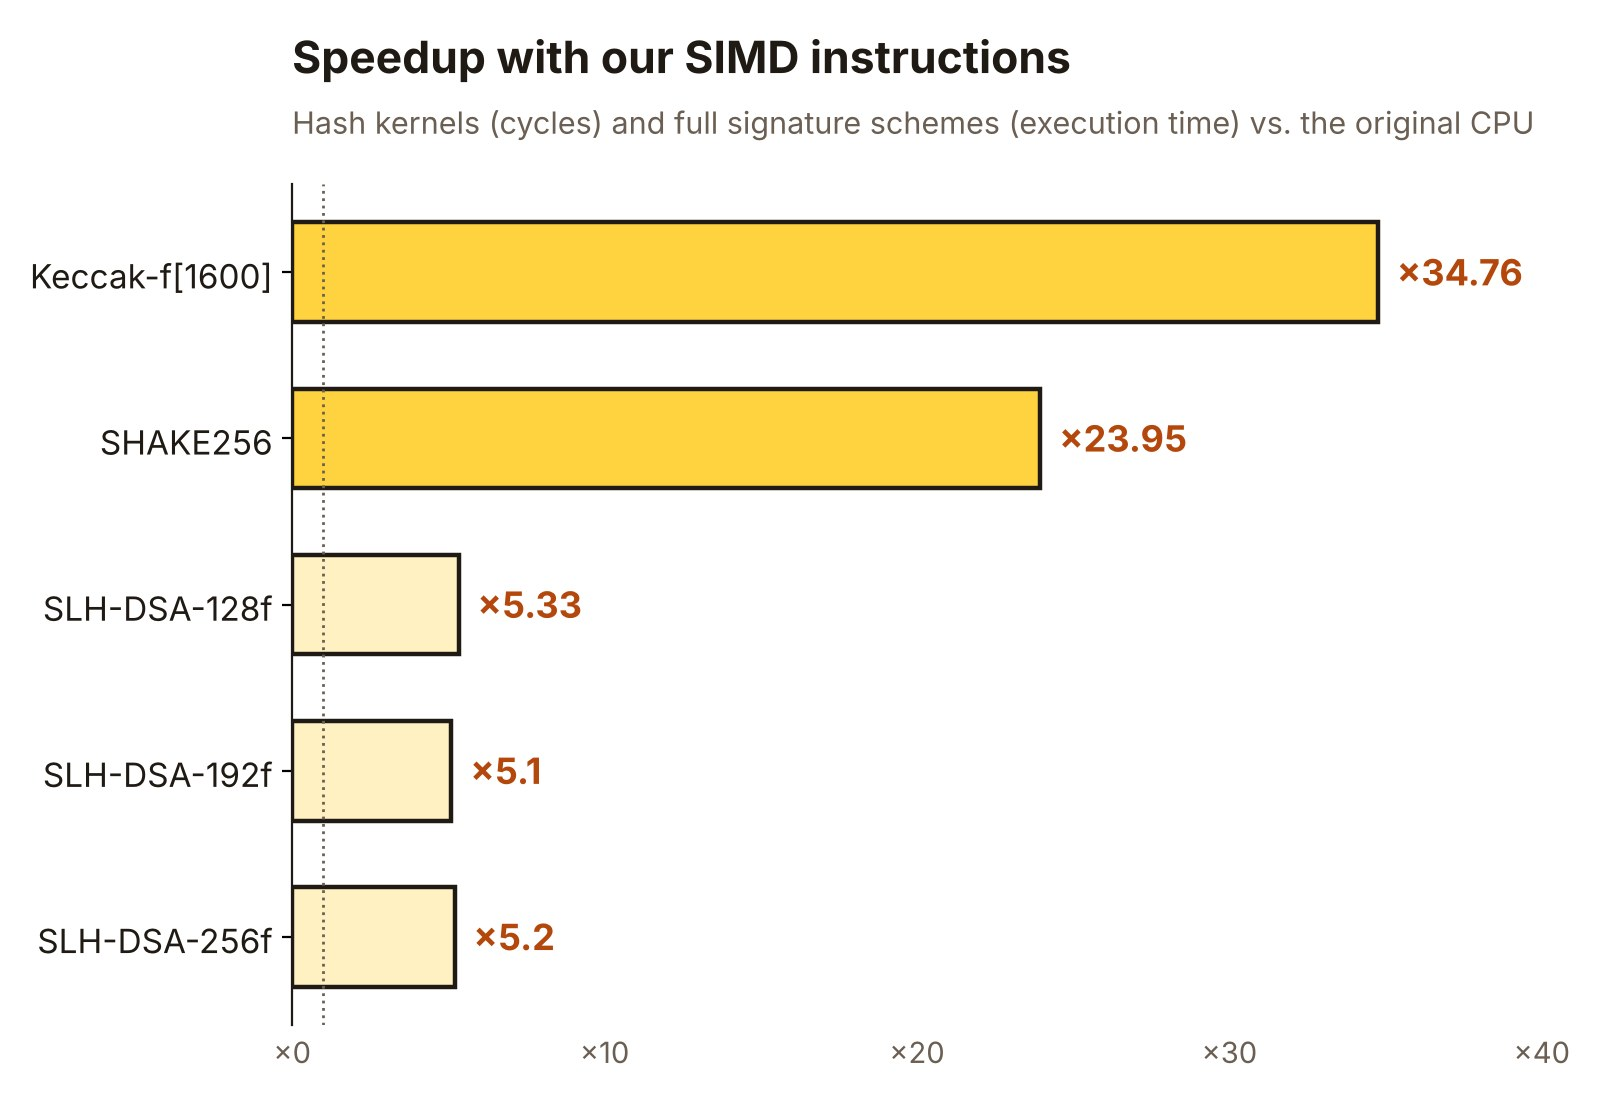
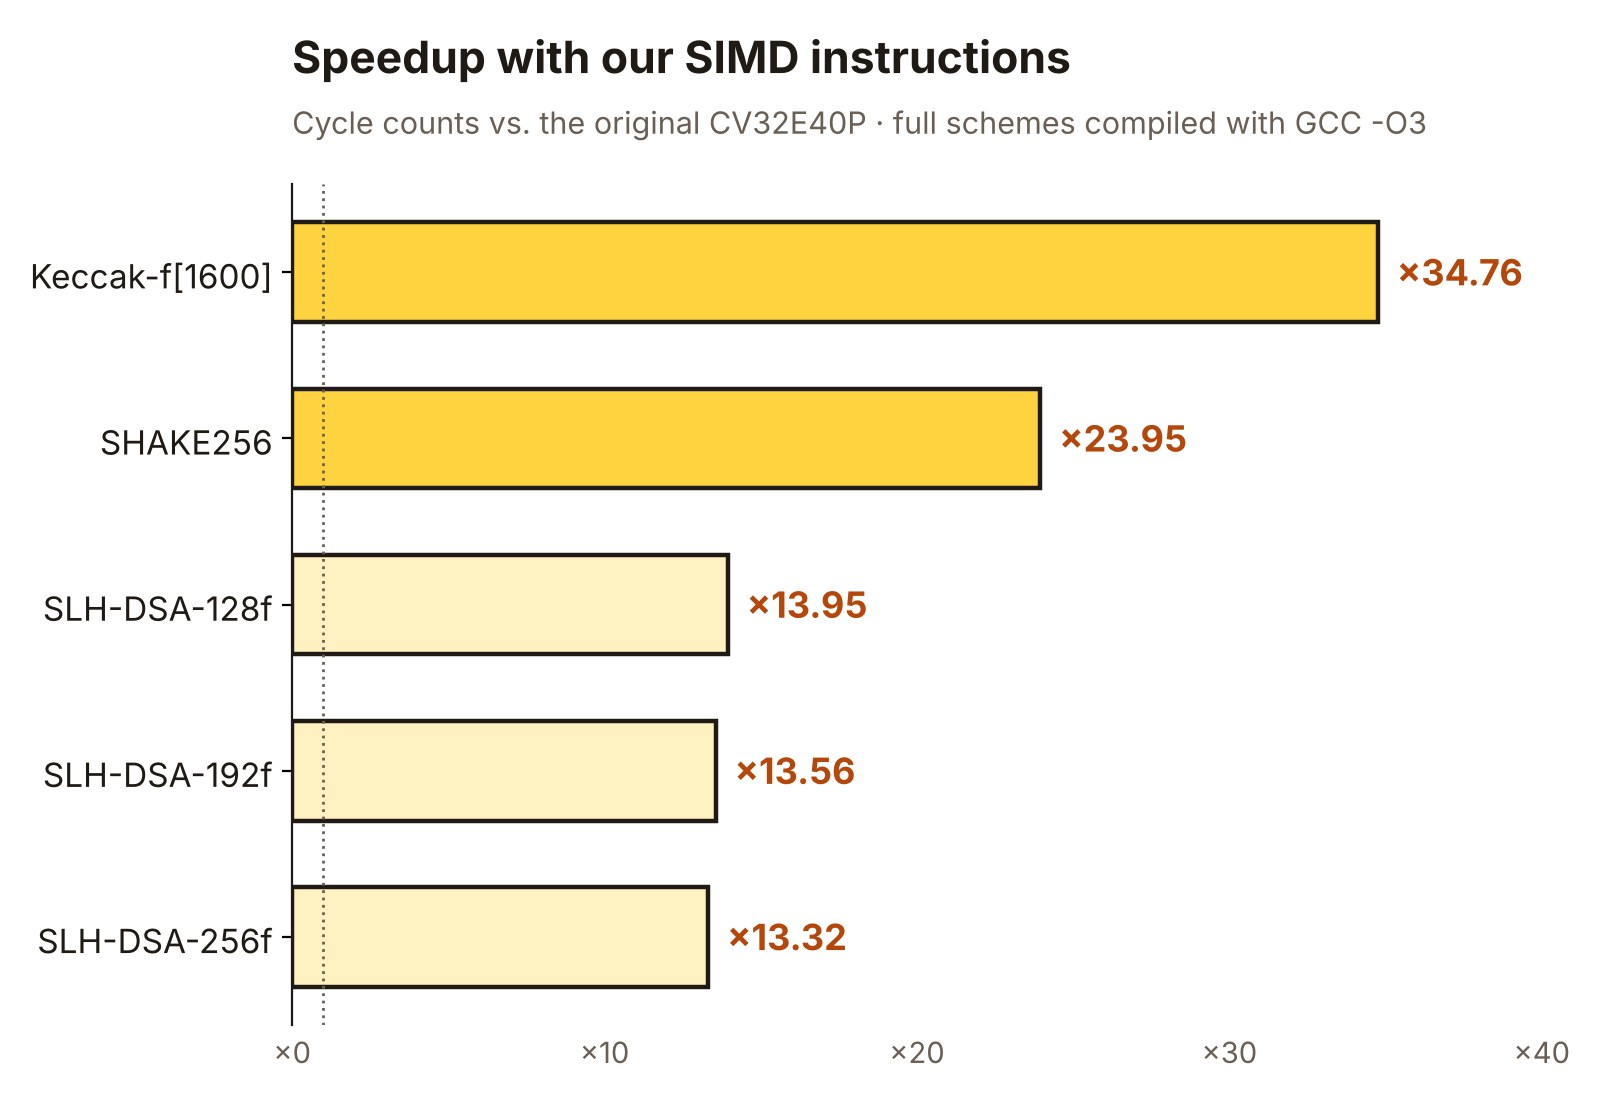
RISCV update

diff --git a/_projects/riscv-slh-dsa.md b/_projects/riscv-slh-dsa.md
@@ -1,6 +1,6 @@
 ---
 title: RISC-V Instruction Extension for Post-Quantum Signatures
-subtitle: A customized RISC-V processor with SIMD instructions that makes SLH-DSA signatures about 5× faster on an FPGA
+subtitle: A customized RISC-V processor with SIMD instructions that runs post-quantum SLH-DSA signatures about 13× faster, verified on real FPGA boards
 date: 2026-06-01
 category: research
 detail: true
@@ -11,9 +11,10 @@ team: "陳彥定, 黃子洵, <span class=\"me\">Li-Cheng Tseng</span>, 蔡丞昕
 role: System integration and hardware verification on FPGA (25%)
 summary: >
   SLH-DSA is a hash-based **post-quantum signature** scheme that is slow on small IoT devices. Reproducing the RVSLH paper,
-  we added **SIMD instructions** to a RISC-V core and ran it on an FPGA — about **5× faster** signatures and up to
-  **34× faster** hashing. I built the FPGA system that connects the processor to the board and runs the software on it.
+  we added **SIMD instructions** to a RISC-V core and ran it on an FPGA — about **13× fewer cycles** for full signatures and up to
+  **34×** for the core hash. I built the FPGA system that connects the processor to the board and runs the software on it.
 img: /assets/img/projects/riscv/thumb.jpg
+hero: /assets/img/projects/riscv/demo_boards.jpg
 tech: [CV32E40P, Synopsys VCS, riscv32-unknown-elf-gcc, Vivado, Xilinx PYNQ-Z2]
 links:
   - label: Demo video
@@ -24,49 +25,89 @@ videos:
   - title: Demo on the PYNQ-Z2 board
     id: zEEjedi2-EU
 ---
-
 ## Overview
 
-Post-quantum signatures are coming to IoT devices, but **SLH-DSA** (based on SPHINCS+) is slow on small processors because it spends most of its time hashing with Keccak and SHAKE256. Our project reproduces the hardware–software co-design from the paper *RVSLH: Acceleration of Post-quantum Standard SLH-DSA With Customized RISC-V Processor*, on the open-source **CV32E40P** RISC-V core.
+Today's digital signatures (RSA, ECC) could be broken by a large quantum computer. In 2024 NIST standardized **SLH-DSA** (FIPS 205, based on SPHINCS+), a post-quantum signature scheme whose security rests only on hash functions. The catch is speed: it hashes constantly, and on a small CPU a single signature can take **up to half an hour**. That makes it hard to use on IoT and edge devices.
+
+Our project reproduces the hardware–software co-design from the paper *RVSLH: Acceleration of Post-quantum Standard SLH-DSA With Customized RISC-V Processor* on the open-source **CV32E40P** RISC-V core, and takes it all the way to working FPGA hardware.
+
+<figure class="pj-figure">
+  <img src="{{ '/assets/img/projects/riscv/signature_flow.jpg' | relative_url }}" alt="Digital signature flow: signer hashes data and runs the signature algorithm; verifier runs the verification algorithm and compares hashes" loading="lazy">
+  <figcaption>The signing and verification flow. The purple blocks — where SLH-DSA spends its time hashing — are what we accelerate in hardware.</figcaption>
+</figure>
 
 ## What we built
 
-**Hardware — a SIMD engine inside the CPU**
+### Hardware — a SIMD engine inside the CPU
 
 - **320-bit SIMD registers and ALU** that hold five 64-bit Keccak lanes (one row of the state) at once, removing the data dependencies that make Keccak slow in software.
-- **Custom instructions** such as `xor3v`, `xorrv`, `rxorv`, and `xornav` that turn long chains of software logic into single operations.
-- **New load/store instructions** (`lv`, `sv`) that move whole blocks between memory and the SIMD registers.
-- **Transpose and zero registers** that make the 5×5 Keccak state easy to transpose and access.
+- **Custom instructions** that turn long chains of software logic into single operations:
+
+| Instruction | What it does |
+| --- | --- |
+| `xor3v` | XOR three SIMD registers |
+| `xorrv` | Rotate and XOR one SIMD register |
+| `rxorv` | XOR two SIMD registers, then rotate and reorder |
+| `xornav` | Compute `(~A & B) ^ C` on three SIMD registers |
+| `lv` / `sv` | Load / store a full 320-bit vector between memory and a SIMD register |
+
+- **Transpose and zero registers**: extra register names map onto the same physical registers in transposed order, so the 5×5 Keccak state can be transposed without moving any data.
+
+<div class="pj-figure-row">
+  <figure class="pj-figure">
+  <img src="{{ '/assets/img/projects/riscv/keccak_code.jpg' | relative_url }}" alt="Assembly code of one Keccak-f round written with the custom instructions" loading="lazy">
+  <figcaption>One Keccak-f[1600] round written with our instructions.</figcaption>
+</figure>
+  <figure class="pj-figure">
+  <img src="{{ '/assets/img/projects/riscv/register_map.jpg' | relative_url }}" alt="Register mapping: rows x0 to x4 and columns x16 to x20 refer to the same 5x5 grid of 64-bit lanes" loading="lazy">
+  <figcaption>Transposed register mapping: x0–x4 read the state by rows, x16–x20 by columns. Each cell is 64 bits.</figcaption>
+</figure>
+</div>
 
 <figure class="pj-figure">
   <img src="{{ '/assets/img/projects/riscv/architecture.png' | relative_url }}" alt="Modified CV32E40P pipeline with new SIMD register file and SLH-ALU" loading="lazy">
   <figcaption>The modified CV32E40P core: green blocks are new (SIMD register file, SLH-ALU), blue blocks are modified.</figcaption>
 </figure>
 
-**Software — removing data copies**
+### Software — removing data copies
 
-The reference C code builds every hash input with `memcpy`. We pre-allocated contiguous structures and updated addresses in place, removing those copies entirely.
+The NIST reference code builds every hash input with `memcpy`, stitching together the public seed, address, and data. We pre-allocated contiguous structures and updated addresses **in place**, removing those copies entirely. Because the Keccak state now lives in the SIMD registers, memory accesses drop as well.
 
-## My part: running it on a real FPGA
+## My part: running it on real FPGA boards
 
 I was responsible for **system integration and hardware verification** on the Xilinx PYNQ-Z2 board:
 
-- **A shared-memory SoC.** The board's ARM processor acts as the host and our RISC-V core as a co-processor; the two communicate through a **dual-port BRAM**.
-- **Bare-metal software.** With no operating system on the RISC-V side, I rewrote the startup code (`boot.S`) and linker script (`link.ld`), cross-compiled the SLH-DSA C code, and mapped it into the FPGA's separate instruction and data memories.
+- **A shared-memory SoC.** The board's ARM Cortex-A9 acts as the host and our RISC-V core as a co-processor. The ARM loads the program and data into the RISC-V's instruction and data memories through DMA and AXI BRAM controllers, then starts it and waits for "done" through GPIO.
+- **Bare-metal software.** With no operating system on the RISC-V side, I rewrote the startup code (`boot.S`) and linker script (`link.ld`), cross-compiled the SLH-DSA C code to a raw binary, and mapped it into the FPGA's separate instruction and data memories.
+- **Automated verification** with Python scripts on the ARM side.
+
+<figure class="pj-figure">
+  <img src="{{ '/assets/img/projects/riscv/soc.jpg' | relative_url }}" alt="SoC block diagram: Zynq Cortex-A9, DMA, two AXI BRAM controllers, data and instruction memory, CV32E40P RISC-V CPU, GPIO start/done" loading="lazy">
+  <figcaption>The SoC I built on the PYNQ-Z2: the ARM host talks to our RISC-V core through shared BRAM.</figcaption>
+</figure>
+
+For the demo, **one board signs a file and sends the signature over a socket to a second board, which verifies it** — a complete post-quantum signing exchange between two devices.
 
 ## Results
 
 <figure class="pj-figure">
-  <img src="{{ '/assets/img/projects/riscv/speedup.jpg' | relative_url }}" alt="Speedups: Keccak-f 34.76x, SHAKE256 23.95x, SLH-DSA about 5x" loading="lazy">
+  <img src="{{ '/assets/img/projects/riscv/speedup.jpg' | relative_url }}" alt="Speedups: Keccak-f 34.76x, SHAKE256 23.95x, SLH-DSA about 13 to 14x" loading="lazy">
 </figure>
 
-| Parameter set | Original CPU | With SIMD instructions | Speedup |
+| Parameter set | Original CPU | With our SIMD core | Speedup (cycles) |
 | --- | --- | --- | --- |
-| SLH-DSA-SHAKE-128f | 64 s | 12 s | ×5.33 |
-| SLH-DSA-SHAKE-192f | 102 s | 20 s | ×5.1 |
-| SLH-DSA-SHAKE-256f | 208 s | 40 s | ×5.2 |
+| SLH-DSA-SHAKE-128f | 2.67 M kcycles · 56.1 s | 0.19 M kcycles · 6.0 s | ×13.95 |
+| SLH-DSA-SHAKE-192f | 4.30 M kcycles · 88.2 s | 0.32 M kcycles · 10.0 s | ×13.56 |
+| SLH-DSA-SHAKE-256f | 8.70 M kcycles · 176.3 s | 0.65 M kcycles · 16.1 s | ×13.32 |
 
 | Kernel | Original (cycles) | Ours (cycles) | Speedup |
 | --- | --- | --- | --- |
 | Keccak-f[1600] | 42,793 | 1,231 | ×34.76 |
 | SHAKE256 | 220,357 | 9,200 | ×23.95 |
+
+Full-scheme numbers were compiled with `riscv64-unknown-elf-gcc` 15.1.0 at `-O3`.
+
+## What's next
+
+- Turn the board into a **post-quantum FIDO2 security key**, adding the CTAP2 protocol and a USB interface for passwordless WebAuthn login.
+- Reuse the SIMD engine for other Keccak-heavy standards such as **ML-KEM**.
